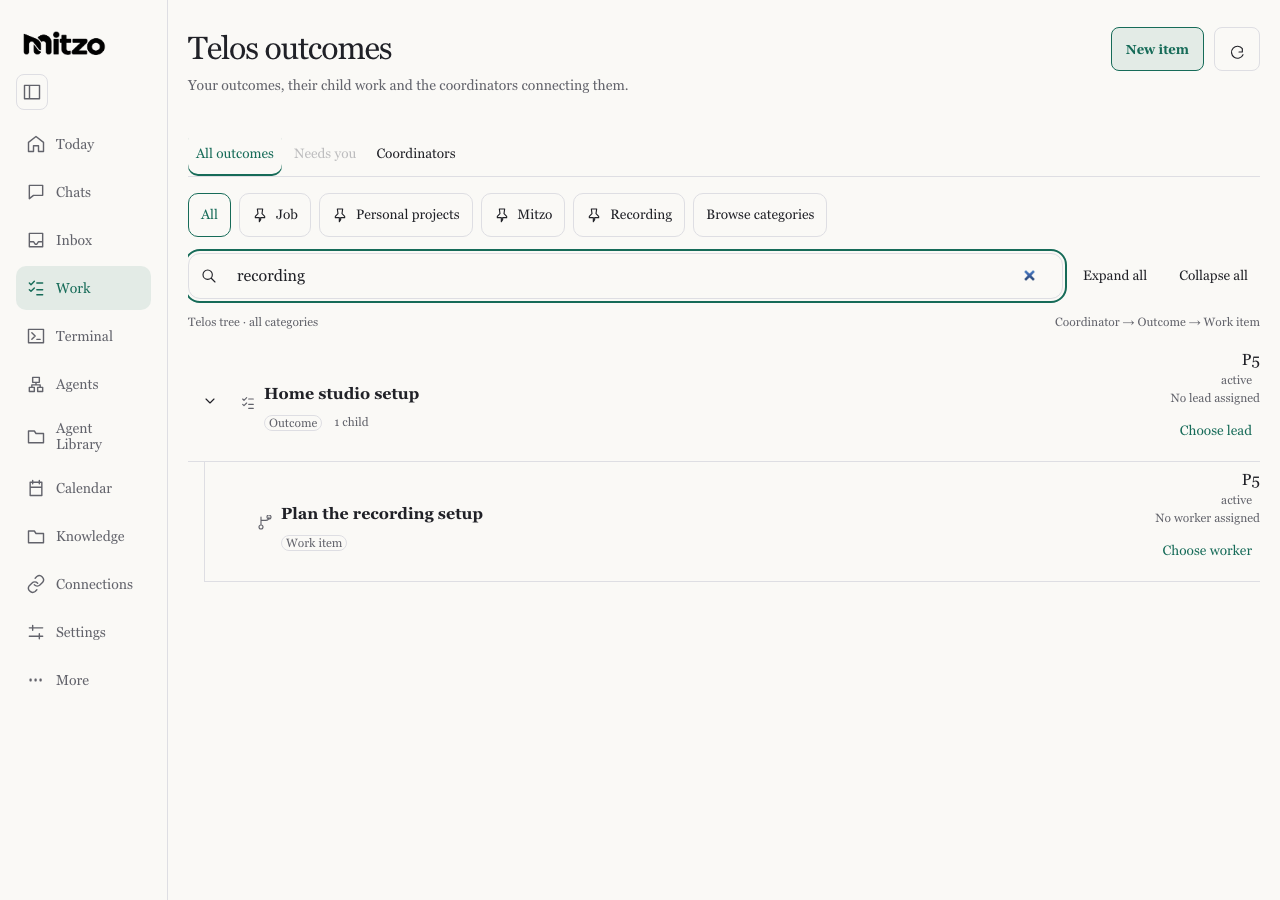
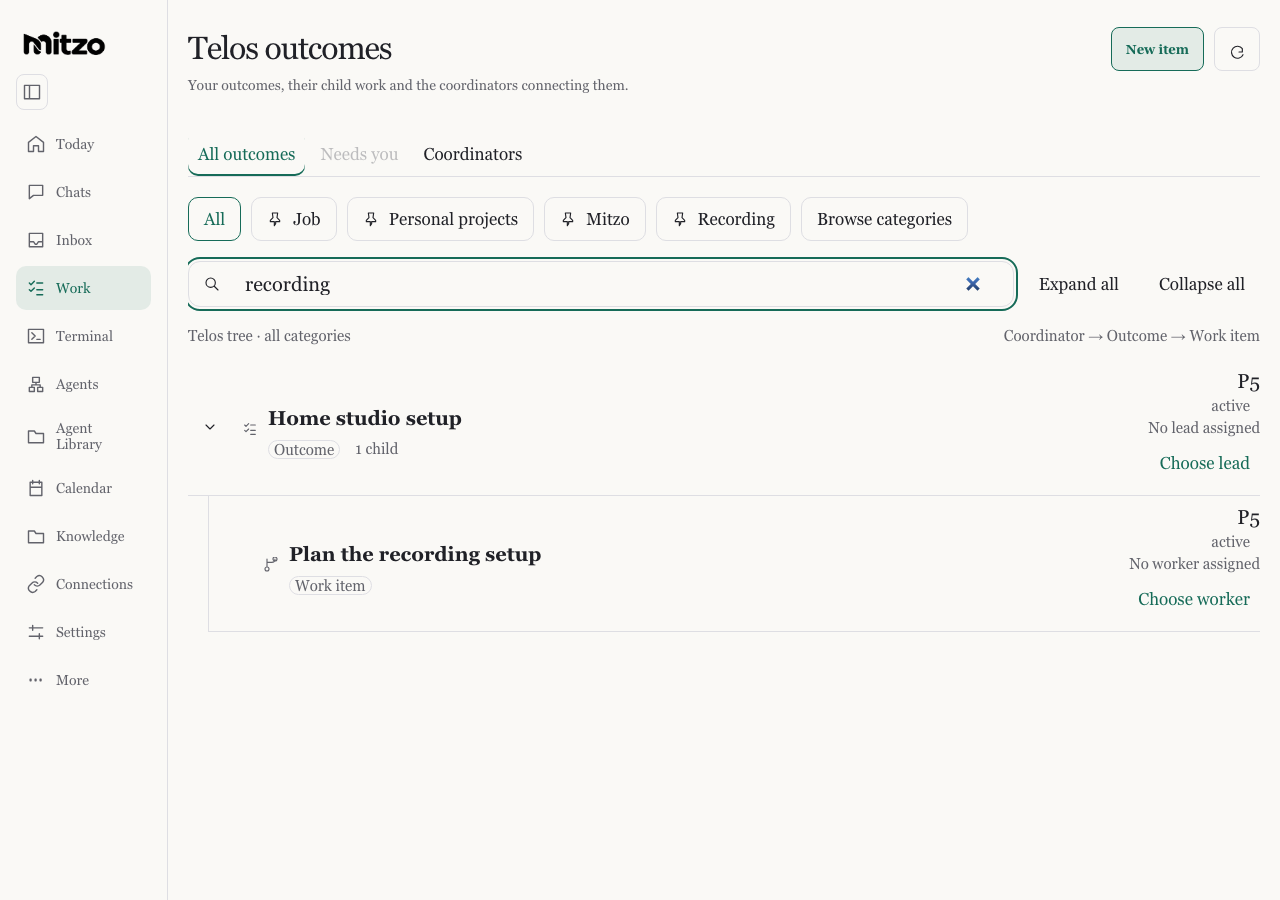
fix(telos): reconcile authoritative recovery and constrained workspace layout

diff --git a/tests/offline/telos-outcomes-workspace.spec.ts b/tests/offline/telos-outcomes-workspace.spec.ts
@@ -133,7 +133,7 @@ for (const theme of ['dark', 'light'])
       )
         return route.fulfill({
           contentType: 'text/html',
-          body: `<!doctype html><html data-theme="${theme}" data-accent="${theme === 'dark' ? 'mint' : 'teal'}" data-font="${theme === 'dark' ? 'system' : 'georgia'}"><meta name="viewport" content="width=device-width,initial-scale=1"><link rel="stylesheet" href="/fixture.css"><div id="root"></div><script src="/fixture.js"></script></html>`,
+          body: `<!doctype html><html data-theme="${theme}" data-accent="${theme === 'dark' ? 'mint' : 'teal'}" data-font="${theme === 'dark' ? 'system' : 'georgia'}"><meta name="viewport" content="width=device-width,initial-scale=1"><link rel="stylesheet" href="/fixture.css"><style>html{font-size:${theme === 'light' ? '125%' : '100%'}}</style><div id="root"></div><script src="/fixture.js"></script></html>`,
         });
       if (url.pathname === '/api/todos')
         return collectionMode === 'error'
@@ -309,10 +309,28 @@ for (const theme of ['dark', 'light'])
     if (!isMobile)
       expect((await page.locator('.telos-item-workspace').boundingBox())!.x).toBeGreaterThan(100);
     await expect(page.getByRole('button', { name: 'Work', exact: true })).toHaveCount(0);
+    await expect(page.locator('.telos-item-workspace')).toBeVisible();
     const priority = page.getByRole('combobox', { name: 'Priority', exact: true });
     const priorityBounds = (await priority.boundingBox())!;
     expect(priorityBounds.height).toBeGreaterThanOrEqual(44);
     expect(priorityBounds.width).toBeGreaterThanOrEqual(44);
+    const intrinsicWidth = await priority.evaluate((element) => {
+      const probe = element.cloneNode(true) as HTMLSelectElement;
+      Object.assign(probe.style, {
+        position: 'fixed',
+        width: 'max-content',
+        minWidth: '0',
+        maxWidth: 'none',
+        flex: 'none',
+        visibility: 'hidden',
+      });
+      element.parentElement!.appendChild(probe);
+      const width = probe.getBoundingClientRect().width;
+      probe.remove();
+      return width;
+    });
+    expect(priorityBounds.width).toBeGreaterThanOrEqual(intrinsicWidth - 1);
+
     expect(priorityBounds.x + priorityBounds.width).toBeLessThanOrEqual(page.viewportSize()!.width);
 
     for (let value = 1; value <= 10; value++) {
@@ -348,10 +366,31 @@ for (const theme of ['dark', 'light'])
       select.dispatchEvent(new Event('change', { bubbles: true }));
     });
     expect(priorityWrites.length).toBe(writesBeforeOverlap);
+    failRecords = true;
     releasePriority!();
     priorityGate = undefined;
     await expect(priority).toHaveValue('3');
     await expect(priority).toBeEnabled();
+    await expect(
+      page.getByRole('alert').filter({ hasText: 'Some related outcome records are unavailable' }),
+    ).toBeVisible();
+    // A second client saves 2 while this client's acknowledged 3 could not refresh.
+    records[1] = { ...records[1], priority: 2, updatedAt: '2026-10-17T23:59:00Z' };
+    failRecords = false;
+    await page.evaluate(() =>
+      window.fixtureTodoEvents.dispatchEvent(new MessageEvent('todo_update', { data: '{}' })),
+    );
+    await expect(priority).toHaveValue('2');
+    await page.getByRole('button', { name: 'Back', exact: true }).click();
+    const recoveredRow = page
+      .locator('.telos-tree-row')
+      .filter({ has: page.getByRole('button', { name: 'Plan the recording setup', exact: true }) });
+    await expect(recoveredRow.getByLabel('Priority 2 out of 10')).toHaveText('P2');
+    await recoveredRow
+      .getByRole('button', { name: 'Plan the recording setup', exact: true })
+      .click();
+    await expect(priority).toHaveValue('2');
+
     expect(priorityWrites).toEqual([1, 2, 3, 4, 5, 6, 7, 8, 9, 10, 2, 3]);
     const sharedAction = page.getByRole('button', { name: 'Choose worker', exact: true });
     await expect(sharedAction).toBeVisible();
@@ -379,7 +418,14 @@ for (const theme of ['dark', 'light'])
     await page.getByRole('button', { name: 'Materials', exact: true }).click();
     await page.getByText('Provenance', { exact: true }).click();
     await expect(page.getByText('b'.repeat(64))).toBeVisible();
-    expect((await page.locator('.output-row-copy').boundingBox())!.width).toBeGreaterThan(160);
+    expect((await page.locator('.output-row-copy').boundingBox())!.width).toBeGreaterThanOrEqual(
+      160,
+    );
+    expect(
+      await page
+        .locator('.output-row-copy')
+        .evaluate((element) => element.scrollWidth <= element.clientWidth),
+    ).toBe(true);
     await page.getByRole('link', { name: 'Saved studio plan', exact: true }).click();
     await expect(page.getByRole('heading', { name: 'Retained studio plan r3' })).toBeVisible();
     await expect(page.getByRole('heading', { name: 'Latest studio plan r4' })).toHaveCount(0);
@@ -416,6 +462,32 @@ for (const theme of ['dark', 'light'])
     await expect(page.getByText('fixture/mitzo', { exact: true })).toBeVisible();
     await expect(page.getByText('frontend/src/pages/TodoView.tsx', { exact: true })).toBeVisible();
     await page.screenshot({ path: info.outputPath('software-' + theme + '.png'), fullPage: true });
+    if (!isMobile && theme === 'light') {
+      await page.setViewportSize({ width: 900, height: 900 });
+      const geometry = await page.locator('.telos-dashboard').evaluate((dashboard) => {
+        const main = dashboard.firstElementChild!,
+          brief = dashboard.lastElementChild!;
+        const body = main.getBoundingClientRect(),
+          side = brief.getBoundingClientRect();
+        const controls = [...main.querySelectorAll('button')]
+          .map((button) => button.getBoundingClientRect())
+          .filter((rect) => rect.width > 0);
+        return {
+          contained: controls.every(
+            (rect) => rect.left >= body.left && rect.right <= body.right + 1,
+          ),
+          separated: body.right <= side.left || body.bottom <= side.top,
+        };
+      });
+      expect(geometry.contained).toBe(true);
+      expect(geometry.separated).toBe(true);
+      await page.screenshot({
+        path: info.outputPath('workspace-narrow-enlarged-light.png'),
+        fullPage: true,
+      });
+      await page.setViewportSize({ width: 1280, height: 900 });
+    }
+
     await page.getByRole('button', { name: 'Back', exact: true }).click();
     await expect(search).toHaveValue('frontend/src/pages/TodoView.tsx');
     failRecords = true;

diff --git a/tests/browser/telos-mobile.spec.ts b/tests/browser/telos-mobile.spec.ts
@@ -46,6 +46,11 @@ test.beforeEach(async ({ page }) => {
       return route.fulfill({
         json: { profiles: ['centaur', 'manual', 'personal', 'work'], items },
       });
+    if (path.startsWith('/api/telos/work/'))
+      return route.fulfill({
+        status: 404,
+        json: { error: 'Canonical records unavailable in this legacy fallback fixture' },
+      });
     if (path === '/api/home/preferences')
       return route.fulfill({
         json: { revision: 0, names: { briefing: 'Minion', terminal: 'Minion' }, pins: [] },
@@ -105,16 +110,24 @@ test('Telos keeps long handovers compact and actions reachable on iOS', async ({
   await expect(page.getByRole('button', { name: 'Pin to Today', exact: true })).toBeEnabled();
 });
 
-test('desktop and tablet Work lists retain a compact action bar without a second heading', async ({
+test('desktop and tablet legacy Work fallback retains a compact action bar without a second heading', async ({
   page,
   isMobile,
 }) => {
   test.skip(isMobile, 'Desktop collection layout');
   for (const width of [1280, 820]) {
     await page.setViewportSize({ width, height: 900 });
-    await expect(page.getByRole('heading', { name: 'Work with purpose' })).toBeVisible();
+    await expect(page.getByRole('heading', { name: 'Work', exact: true })).toBeVisible();
     await expect(page.getByRole('heading', { name: 'Telos', exact: true })).toBeHidden();
-    const list = page.getByRole('region', { name: 'Work items', exact: true });
+    const list = page.locator('.todo-page');
+    await expect(list.getByRole('heading', { name: 'Work', exact: true })).toHaveCount(1);
+    const pageBounds = (await list.boundingBox())!,
+      centerBounds = (await page.locator('.desktop-center').boundingBox())!;
+    expect(Math.abs(pageBounds.width - centerBounds.width)).toBeLessThanOrEqual(1);
+    expect(pageBounds.x).toBeGreaterThanOrEqual(centerBounds.x);
+    expect(pageBounds.x + pageBounds.width).toBeLessThanOrEqual(
+      centerBounds.x + centerBounds.width + 1,
+    );
     await expect(list.getByRole('button', { name: 'Add outcome' })).toBeVisible();
     await expect(list.getByRole('button', { name: 'Refresh Telos' })).toBeVisible();
     expect(

diff --git a/frontend/src/hooks/__tests__/useTelosRecords.test.tsx b/frontend/src/hooks/__tests__/useTelosRecords.test.tsx
@@ -172,3 +172,40 @@ it('accepts later authoritative priority changes once a confirmed write is recon
   act(() => updates.forEach((listener) => listener()));
   await waitFor(() => expect(view.result.current.records[0]?.priority).toBe(2));
 });
+
+for (const remount of [false, true])
+  it(`accepts an authoritative recovery read after another client changed priority${remount ? ' across navigation/remount' : ''}`, async () => {
+    const { setTodoPriority } = await import('../../lib/todo-priority');
+    vi.spyOn(await import('../../lib/api-fetch'), 'apiFetch').mockResolvedValue(
+      new Response('{"ok":true}'),
+    );
+    let current = {
+      ...createTelosWorkFixtures().homeStudio.items[0],
+      itemId: `later-client-${remount}`,
+      priority: 5,
+    };
+    let failed = false;
+    vi.spyOn(TelosWorkApiClient.prototype, 'readRecord').mockImplementation(async () => {
+      if (failed) throw Error('temporary record outage');
+      return structuredClone(current);
+    });
+    let view = renderHook(() => useTelosRecords([current.itemId]));
+    await waitFor(() => expect(view.result.current.records[0]?.priority).toBe(5));
+    failed = true;
+    await act(async () => {
+      await setTodoPriority(current.itemId, 9);
+    });
+    await waitFor(() => expect(view.result.current.unavailable).toContain(current.itemId));
+    expect(view.result.current.records[0]?.priority).toBe(9);
+    // The action was acknowledged, but a different client saved 2 before recovery.
+    current = { ...current, priority: 2, updatedAt: '2026-10-17T23:59:00Z' };
+    failed = false;
+    if (remount) {
+      view.unmount();
+      view = renderHook(() => useTelosRecords([current.itemId]));
+    } else act(() => updates.forEach((listener) => listener()));
+    await waitFor(() => expect(view.result.current.unavailable).toEqual([]));
+    await waitFor(() => expect(view.result.current.records[0]?.priority).toBe(2));
+    act(() => updates.forEach((listener) => listener()));
+    await waitFor(() => expect(view.result.current.records[0]?.priority).toBe(2));
+  });

diff --git a/server/connections/reviewed-handler-artifacts.ts b/server/connections/reviewed-handler-artifacts.ts
@@ -10,7 +10,7 @@ export const reviewedHandlerImplementationRevision = 'v1.0.2';
 export const reviewedGithubPublicationImplementationRevision = 'v1.0.10';
 
 /** Runtime admission changes without changing existing provider policy semantics. */
-export const reviewedConnectionsRuntimeImplementationRevision = 'v1.0.289-telos-s7-sandbox-review';
+export const reviewedConnectionsRuntimeImplementationRevision = 'v1.0.290-telos-s7-recovery-layout';
 
 export function reviewedHandlerSourceFingerprint(source: string) {
   return createHash('sha256').update(source.replace(/\r\n/g, '\n')).digest('hex');
@@ -27,9 +27,9 @@ export const reviewedHandlerSourceArtifacts = Object.freeze({
   '../../frontend/src/lib/telos-kind-label.ts':
[1 lines of base64/hex data omitted]
   '../../frontend/src/hooks/useTelosRecords.ts':
[2 lines of base64/hex data omitted]
   '../../frontend/src/components/TelosWorkspace.css':
[2 lines of base64/hex data omitted]
   '../../frontend/src/components/TelosItemWorkspace.tsx':
[1 lines of base64/hex data omitted]
   '../../frontend/src/components/TelosOutcomesTree.tsx':
@@ -37,7 +37,7 @@ export const reviewedHandlerSourceArtifacts = Object.freeze({
   '../../frontend/src/pages/TodoWorkspace.tsx':
[1 lines of base64/hex data omitted]
   '../../frontend/src/pages/TodoView.tsx':
[2 lines of base64/hex data omitted]
   '../sandbox-ownership-review.ts':
[1 lines of base64/hex data omitted]
   '../../frontend/src/components/SandboxOwnershipReview.tsx':

diff --git a/frontend/src/hooks/useTelosRecords.ts b/frontend/src/hooks/useTelosRecords.ts
@@ -63,15 +63,18 @@ export function useTelosRecords(ids: string[]) {
       while (cursor < queue.length && !controller.signal.aborted) {
         const id = queue[cursor++];
         try {
-          let record = await api.readRecord(id, controller.signal);
+          const record = await api.readRecord(id, controller.signal);
           if (controller.signal.aborted) return;
           if (record.itemId !== id) throw Error('Record identity mismatch');
           const confirmation = pending.current.get(id);
           if (confirmation) {
-            if (record.priority === confirmation.priority) {
-              pending.current.delete(id);
-              if (confirmations.get(id) === confirmation) confirmations.delete(id);
-            } else record = { ...record, priority: confirmation.priority };
+            // The record route is private/no-store and opens a fresh canonical
+            // transaction. Save notifications abort every earlier admitted read;
+            // this successful read was therefore admitted after acknowledgement.
+            // Another client may already have changed the priority again. Accept
+            // that authority even when it differs from our last confirmed value.
+            pending.current.delete(id);
+            if (confirmations.get(id) === confirmation) confirmations.delete(id);
           }
           records.push(record);
         } catch {

diff --git a/frontend/src/components/TelosWorkspace.css b/frontend/src/components/TelosWorkspace.css
@@ -1,3 +1,6 @@
+.telos-item-workspace {
+  container-type: inline-size;
+}
 .telos-outcomes,
 .telos-item-workspace {
   min-width: 0;
@@ -339,4 +342,44 @@
   cursor: pointer;
   font-size: var(--text-sm);
   font-weight: 600;
+}
+
+/* Keep the approved brief beside the work only while both retain reading room. */
+@container (max-width: 48rem) {
+  .telos-dashboard {
+    grid-template-columns: minmax(0, 1fr);
+  }
+  .telos-brief {
+    border-left: 0;
+    border-top: 1px solid var(--color-border);
+    padding: 0;
+  }
+  .telos-item-heading {
+    grid-template-columns: auto minmax(0, 1fr);
+  }
+  .telos-item-heading > .todo-priority-control {
+    grid-column: 2;
+    min-width: 0;
+  }
+}
+
+@media (min-width: 768px) {
+  .desktop-shell .telos-legacy-page {
+    position: relative;
+    inset: auto;
+    width: 100%;
+    max-width: none;
+    height: 100%;
+    min-height: 0;
+    padding-inline: var(--page-gutter);
+  }
+  .desktop-shell .telos-legacy-page .todo-collection-heading {
+    padding-block: var(--space-3);
+  }
+  .desktop-shell .telos-legacy-page .workspace-page-heading {
+    margin-bottom: 0;
+  }
+  .desktop-shell .telos-legacy-page .workspace-page-heading > p {
+    display: none;
+  }
 }

diff --git a/frontend/src/pages/TodoView.tsx b/frontend/src/pages/TodoView.tsx
@@ -447,7 +447,7 @@ export function TodoView({ selectedId }: { selectedId?: string } = {}) {
     );
 
   return (
-    <div className="todo-page">
+    <div className="todo-page telos-legacy-page">
       <div className="todo-collection-heading">
         <WorkspacePageHeading
           title="Work"

diff --git a/docs/design/ui-design-system.md b/docs/design/ui-design-system.md
@@ -1508,6 +1508,8 @@ shared `UiIcon`, semantic tokens, spacing/type/radius scales, control height and
 keyboard focus. All outcomes stays first; category pins, discovery, query and
 expansion persist on this device. Categories come from canonical records, while
 legacy profile filtering remains available in the explicit original-record fallback.
+That fallback fills the desktop shell with one compact heading/action bar; it does
+not inherit the old fixed mobile page width after the focused-route migration.
 Kind labels never come from child counts or source profiles. Current-role links
 are read through the existing work client; the row enters the workspace Chat tab
 and the existing role owner performs setup. It never allocates from a tree read.
@@ -1525,8 +1527,18 @@ New item restores an unsent planning prompt in the full ordinary chat composer.
 Canonical record views invalidate on item events and visible resume. The published
 priority owner supplies the selector, numeric projection and ordered confirmed-save
 notifications; S7 consumes them in the header and P<n> tree badges, fences older
-reads and retains acknowledged values through failed record refresh. On phones the
+reads and retains acknowledged values through failed record refresh. The first
+successful read admitted after acknowledgement reconciles that value even when
+another client has since changed it. The existing work router promises private,
+no-store responses from a fresh canonical transaction; synchronous invalidation
+fences every earlier read. Numeric equality and timestamp guessing are not used as
+a convergence condition. On phones the
 priority control occupies a separate header row rather than collapsing beside long titles.
+The item itself is a query container: below 48rem of available reading width, the
+20rem brief stacks beneath the work area, including constrained desktop shells and
+enlarged text. The boundary leaves room for both reading columns plus gutters;
+viewport width alone cannot establish that room. Controls are checked against their
+main-column bounds so clipped overflow cannot hide an overlap.
 
 The brief's 20rem column is structural reading geometry. Search wraps before the
 actions at phone widths and uses five shared control heights as its preferred
@@ -1538,7 +1550,8 @@ Inspected all-intercept captures: [phone tree](assets/telos-s7-tree-mobile-dark.
 [desktop tree](assets/telos-s7-tree-desktop-light.png),
 [phone materials](assets/telos-s7-materials-mobile-light.png),
 [desktop materials](assets/telos-s7-materials-desktop-light.png) and
-[repository-backed brief](assets/telos-s7-software-desktop-dark.png).
+[repository-backed brief](assets/telos-s7-software-desktop-dark.png) and
+[900px shell with enlarged text](assets/telos-s7-workspace-narrow-enlarged-light.png).
 The focused fixture exercises actual pages/shells, schema-validated record/work
 DTOs and the accepted canonical projector, with an inert protocol transport.
 Checks cover 320px WebKit/Chromium, 1280px Chromium, light/dark, Mint/System and
